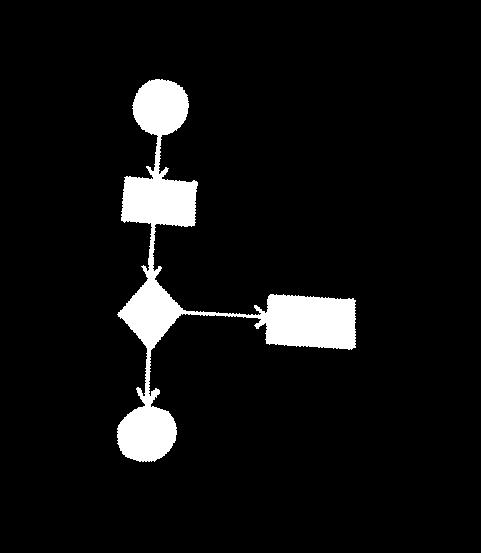
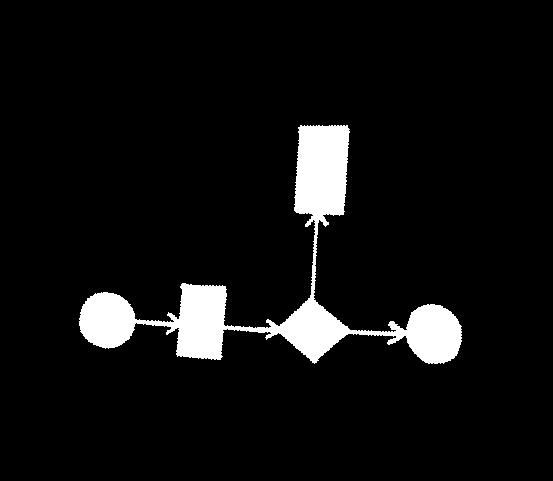
Updates

Changed region(s): [[0.1247, 0.1247, 0.842, 0.842]]

diff --git a/flowchartgenerator.m b/flowchartgenerator.m
@@ -112,7 +112,7 @@ title('Detected Lines');
 
 lines = houghlines(edge_BW, theta, rho, peaks);
 
-best_angle = mode([lines.theta]);
+best_angle = mode([lines.theta])+90;
 im_rot = imrotate(BW2, best_angle);
 imf_rot = imrotate(imf, best_angle);
 figure;
@@ -126,7 +126,7 @@ imwrite(imf_rot, 'Outputs/RotatedFilledImage.jpg');
 
 %% Decomposition
 
-se = strel('diamond', 2);
+se = strel('diamond', 4);
 eroded = imopen(imf_rot, se);
 % figure;
 % imshow(eroded);
@@ -138,7 +138,7 @@ bw = bwareaopen(eroded, 50);
 shps = im_rot - bw;
 % figure, imshow(shps);
 shps = imbinarize(shps);
-bw3 = bwareaopen(shps, 10);
+bw3 = bwareaopen(shps, 20);
 figure, imshow(bw3);
 title('Only Arrows');
 imwrite(bw3, 'Outputs/Arrows.jpg');
